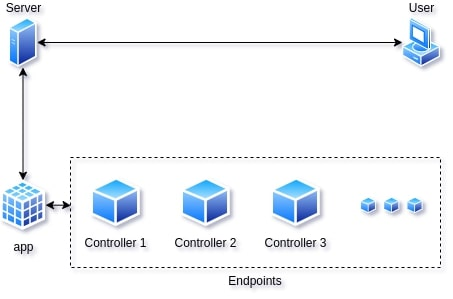
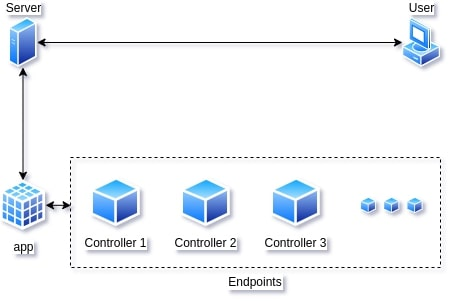
Update image to white background

diff --git a/README.md b/README.md
@@ -2,7 +2,7 @@
 A showcase of a docker with flask infrastructure divided between the controllers.
 
 
-![](README/flask_infrastruct.png)
+![](README/flask_infrastruct.jpg)
 
 # How to use it ?
 
